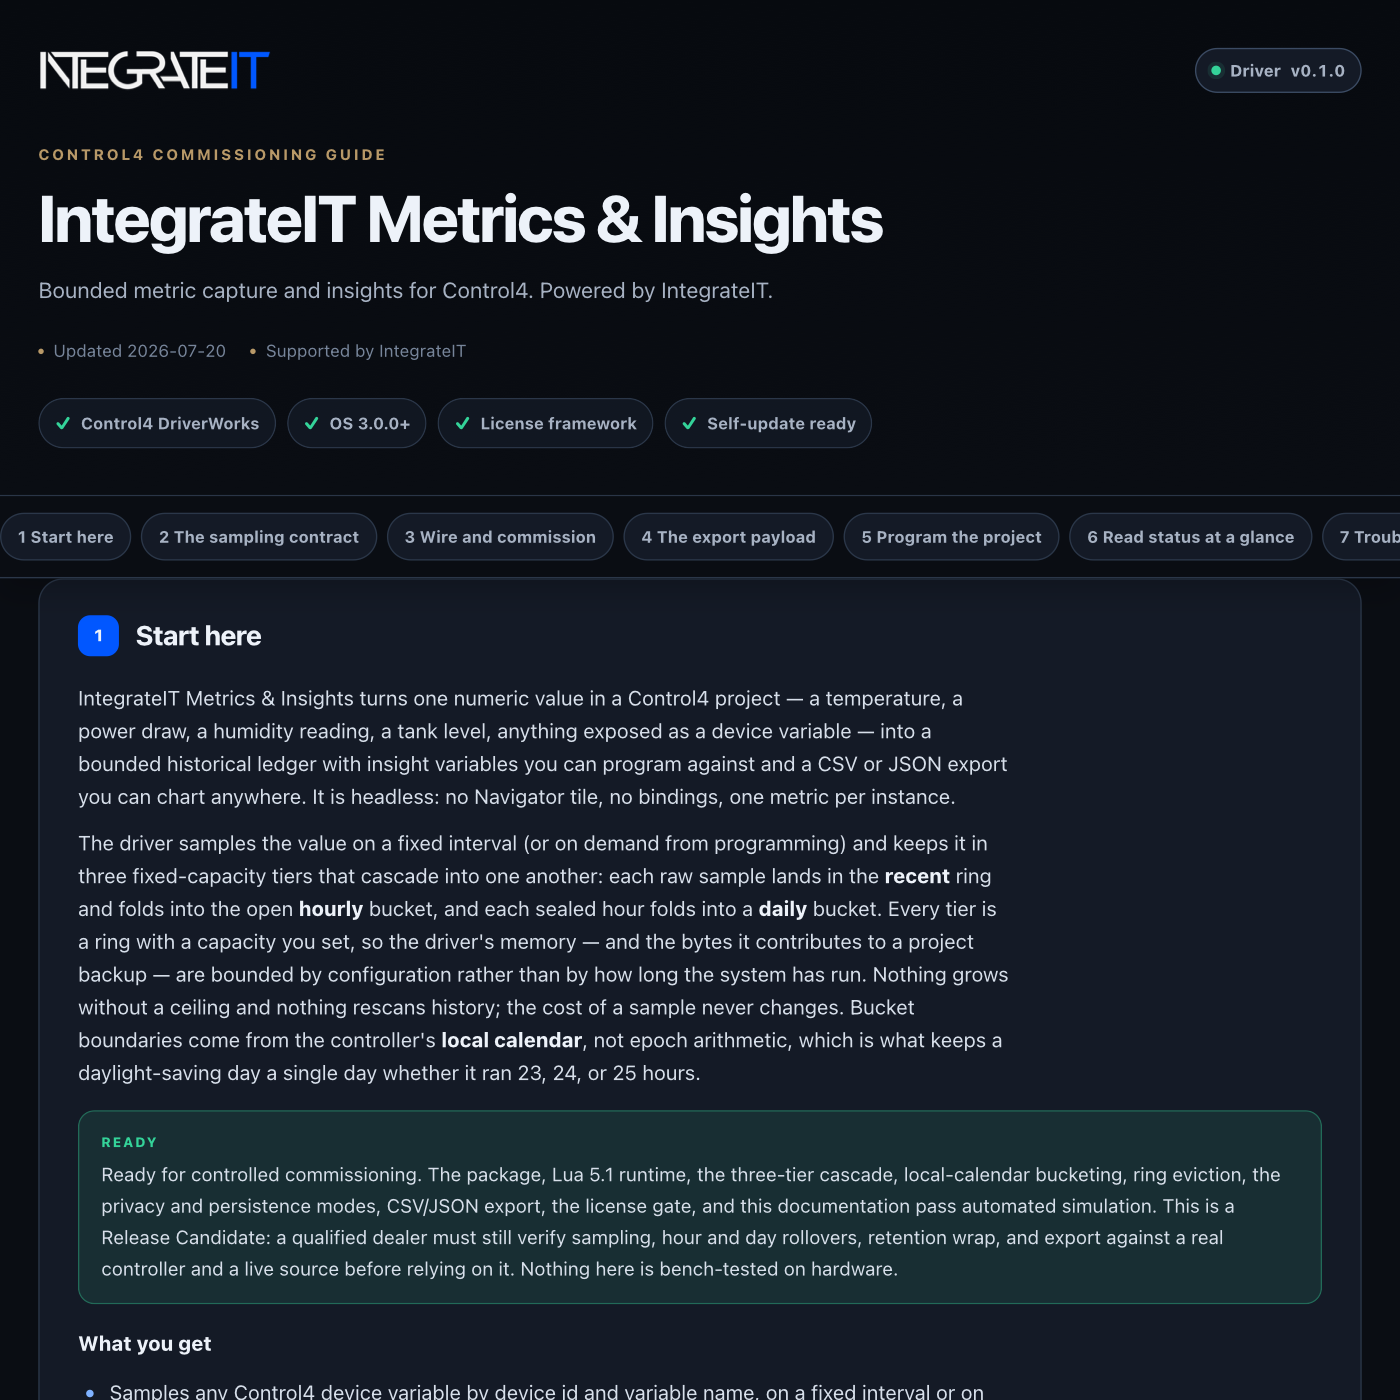
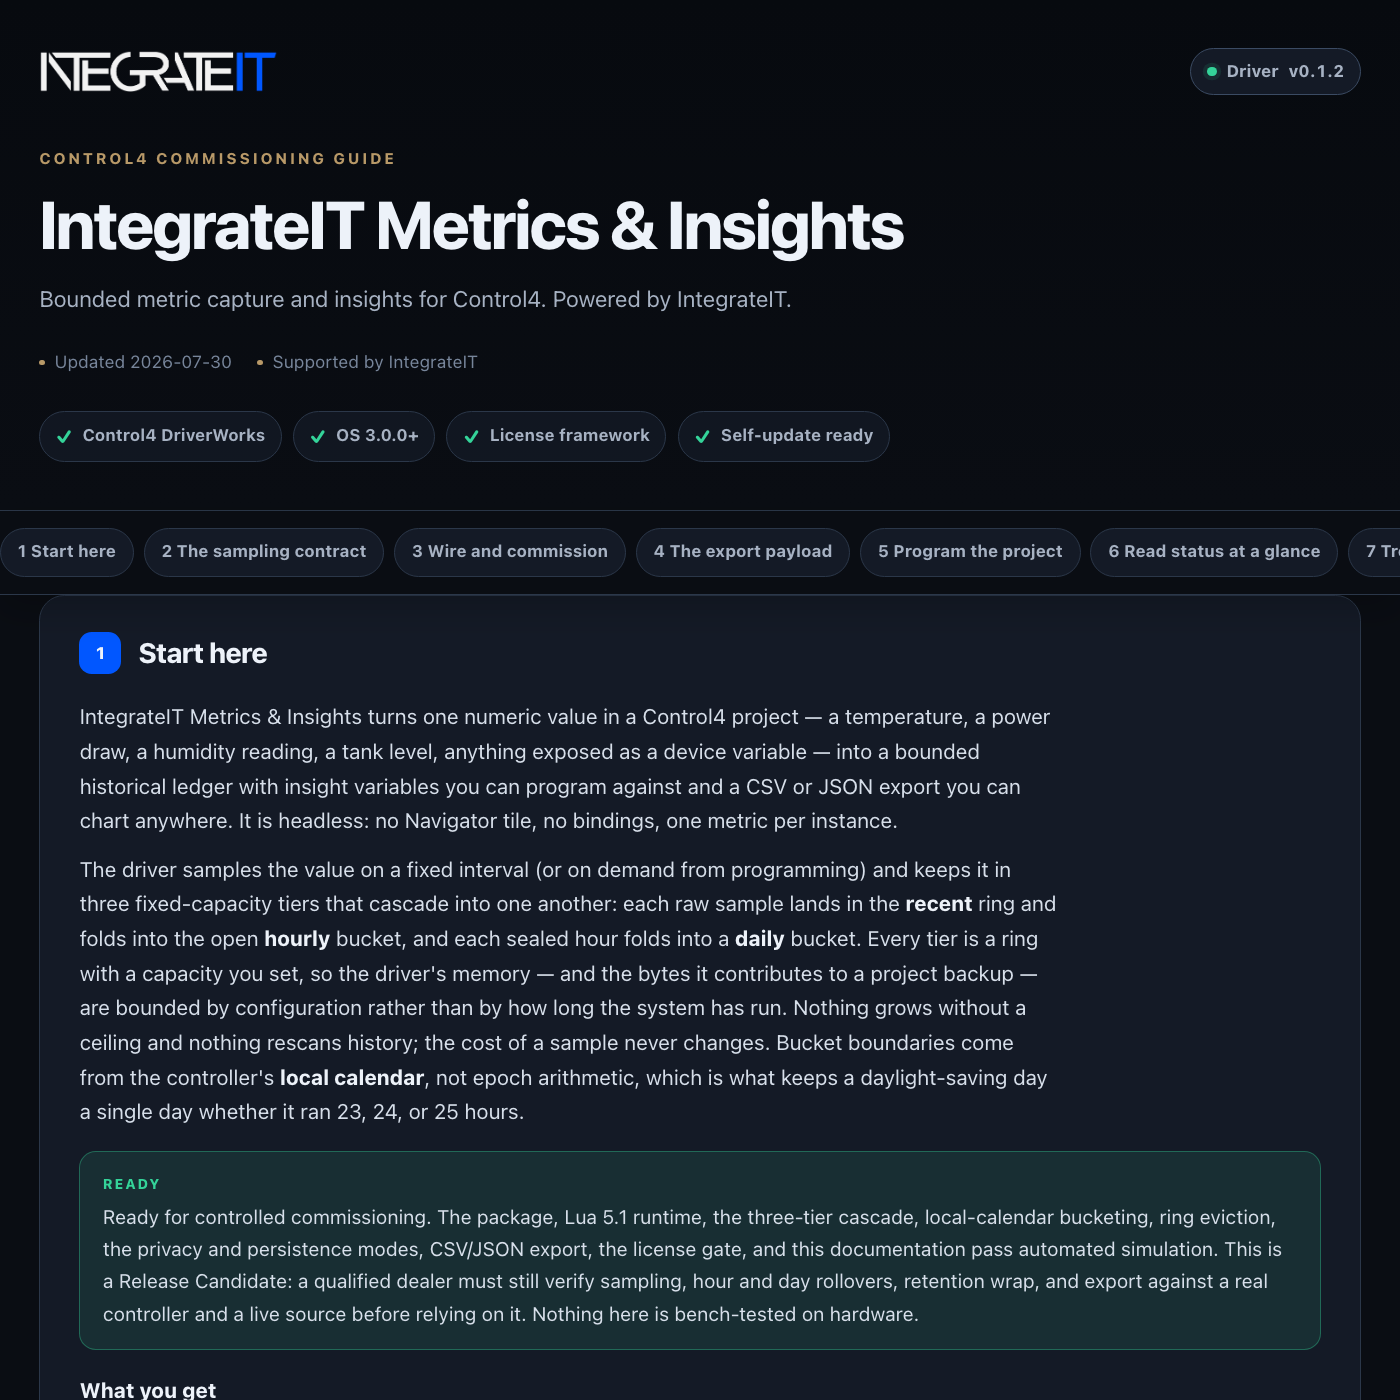
control4: publish driver channel (integrateit_graphing_insights 0.1.3)

diff --git a/control4/integrateit_graphing_insights/documentation.html b/control4/integrateit_graphing_insights/documentation.html
@@ -179,13 +179,13 @@ td code{white-space:normal}
     <div class="wrap">
       <div class="brandbar">
[1 lines of base64/hex data omitted]
-        <span class="version"><span class="word">Driver</span> v0.1.2</span>
+        <span class="version"><span class="word">Driver</span> v0.1.3</span>
       </div>
       <p class="eyebrow">Control4 commissioning guide</p>
       <h1>IntegrateIT Metrics & Insights</h1>
       <p class="sub">Bounded metric capture and insights for Control4. Powered by IntegrateIT.</p>
       <div class="meta">
-        <span>Updated 2026-07-30</span>
+        <span>Updated 2026-07-31</span>
         <span>Supported by IntegrateIT</span>
       </div>
       <div class="readiness" aria-label="Driver capabilities">
@@ -267,6 +267,20 @@ td code{white-space:normal}
 
 <section class="card" id="programming" data-card="programming">
   <h2><span class="n">5</span> Program the project</h2>
+  <p>Ten events are available to program against. Note which ones are edge-triggered — they fire on a transition, not on every poll, so a long outage or a long eviction run is one event, not hundreds.</p>
+  <table>
+    <tr><th>Event</th><th>Fires when</th></tr>
+    <tr><td><code>Sample Recorded</code></td><td>A value was appended to the ledger — the general-purpose "there is new data" hook, raised on every successful sample</td></tr>
+    <tr><td><code>New Maximum</code></td><td>The sample beat every previous value. The first sample of a ledger establishes the extremes silently and does not fire this</td></tr>
+    <tr><td><code>New Minimum</code></td><td>The sample fell below every previous value, with the same first-sample rule</td></tr>
+    <tr><td><code>Significant Change</code></td><td>The sample moved from the previous one by at least <b>Change Event Threshold</b> percent. Never fires while the threshold is <code>0</code>, or when the previous value was <code>0</code></td></tr>
+    <tr><td><code>Hour Rolled Over</code></td><td>A local hour ended and its bucket was sealed into the hourly tier</td></tr>
+    <tr><td><code>Day Rolled Over</code></td><td>A local day ended and its bucket was sealed into the daily tier</td></tr>
+    <tr><td><code>Source Unavailable</code></td><td>A scheduled poll could not read a number from the configured source. Edge-triggered: one event per outage, not one per poll</td></tr>
+    <tr><td><code>History Cleared</code></td><td>Every tier, and any persisted copy, was purged</td></tr>
+    <tr><td><code>Export Complete</code></td><td>An export reached the Lua output window, or the endpoint accepted it</td></tr>
+    <tr><td><code>Retention Limit Reached</code></td><td>A ring filled and started evicting its oldest rows. Fires once per ring, on the first eviction — not on every one</td></tr>
+  </table>
   <p>The insight variables update on every recorded sample:</p>
   <table>
     <tr><th>Variable</th><th>Type</th><th>Meaning</th></tr>
@@ -281,8 +295,9 @@ td code{white-space:normal}
   <ul>
     <li><b>When New Maximum fires and <code>METRIC_VALUE</code> is above your limit → alert.</b> A fresh all-time high on a freezer temperature or a UPS load drives a Control4 notification or scene. The first sample of a ledger sets the extremes silently and does not fire this.</li>
     <li><b>When Source Unavailable fires → notify and light a warning.</b> The configured device stopped returning a number; you get one event per outage, not one per poll.</li>
-    <li><b>On a scene or door event → call Record Sample Now.</b> With a source configured this reads it immediately, marking that moment on the series; with no source configured it re-stamps the value already at the head of the ledger, and records nothing at all while the ledger is still empty.</li>
+    <li><b>When Sample Recorded fires → refresh a live readout.</b> Push <code>METRIC_VALUE</code> and <code>METRIC_TREND</code> to a touch-screen field or a dashboard on every new sample, so the display tracks the ledger without anything polling it.</li>
   </ul>
+  <p>The six entries on the Actions tab — <b>Record Sample Now</b>, <b>Seal Open Buckets</b>, <b>Export to Lua Output</b>, <b>Export to Endpoint</b>, <b>Clear History</b>, <b>Print Configuration</b> — are dealer pokes you click while commissioning; this driver publishes no device-specific commands, so programming reacts to its events and reads its variables rather than calling it. <b>Record Sample Now</b> with a source configured reads it immediately, marking that moment on the series; with no source configured it re-stamps the value already at the head of the ledger, and records nothing at all while the ledger is still empty.</p>
   <p>Control paths are gated by the license: under Strict enforcement an unlicensed controller records, seals, exports, and clears nothing, and <b>License Status</b> carries the reason. The default Lenient mode allows commissioning with the nag.</p>
 </section>
 
@@ -304,9 +319,9 @@ td code{white-space:normal}
   <table>
     <tr><th>Symptom</th><th>Likely cause</th><th>Fix</th></tr>
     <tr><td>Nothing responds at all</td><td>Strict enforcement without a license</td><td>Check <code>License Status</code>; Lenient mode keeps everything enabled without a key.</td></tr>
-    <tr><td><code>Samples Stored</code> stays at all zeros</td><td><b>Privacy Mode</b> is Paused, or <b>Source Device ID</b> / <b>Source Variable</b> is blank</td><td>Status reads *Paused — capture stopped* in the first case; fill in both source fields in the second.</td></tr>
-    <tr><td>Status reads *Nothing to record*</td><td><b>Record Sample Now</b> ran with no source configured and no value ever recorded</td><td>Point <b>Source Device ID</b> and <b>Source Variable</b> at a numeric variable — the driver cannot be handed a value from programming.</td></tr>
-    <tr><td>Status reads *Source unavailable*</td><td>Wrong device id or variable name, or the variable is not numeric</td><td>Confirm both in Composer; a text variable such as a mode name cannot be graphed.</td></tr>
+    <tr><td><code>Samples Stored</code> stays at all zeros</td><td><b>Privacy Mode</b> is Paused, or <b>Source Device ID</b> / <b>Source Variable</b> is blank</td><td>Status reads <i>Paused — capture stopped</i> in the first case; fill in both source fields in the second.</td></tr>
+    <tr><td>Status reads <i>Nothing to record</i></td><td><b>Record Sample Now</b> ran with no source configured and no value ever recorded</td><td>Point <b>Source Device ID</b> and <b>Source Variable</b> at a numeric variable — the driver cannot be handed a value from programming.</td></tr>
+    <tr><td>Status reads <i>Source unavailable</i></td><td>Wrong device id or variable name, or the variable is not numeric</td><td>Confirm both in Composer; a text variable such as a mode name cannot be graphed.</td></tr>
     <tr><td><code>Current Value</code> never changes</td><td>The source updates more slowly than the interval</td><td>Shorten <b>Sample Interval</b>, or call <b>Record Sample Now</b> from programming.</td></tr>
     <tr><td>No <code>sample</code> rows in the export</td><td><b>Privacy Mode</b> is Aggregates Only</td><td>By design — raw rows are never kept in that mode. Switch to Full History to retain them.</td></tr>
     <tr><td>History is empty after a reboot</td><td><b>Persist Across Reboot</b> is Off</td><td>Set it to Aggregates Only or Full, and check <b>Storage Estimate</b> for the backup cost.</td></tr>
@@ -325,7 +340,7 @@ td code{white-space:normal}
   <p>Lenient mode allows commissioning without an activated key and keeps <b>License Status</b> visible. Strict mode blocks recording, sealing, export, and clearing until the Ops Portal has minted and validated a key for that controller. The shared IntegrateIT license and update services use the controller identity, driver slug, version, configured license key, and update channel as documented in the reference below. Installing this package does not itself mint or activate a controller license.</p>
 <section class="card" id="reference" data-card="reference">
   <h2><span class="n">R</span> Reference</h2>
-  <p>Generated from the driver manifest at build time — always matches this build (v0.1.2).</p>
+  <p>Generated from the driver manifest at build time — always matches this build (v0.1.3).</p>
   <h3>Properties</h3>
   <table>
     <tr><th>Property</th><th>Type</th><th>Default</th><th>Description</th></tr>
@@ -460,7 +475,9 @@ td code{white-space:normal}
     <section class="card" id="changelog" data-card="changelog">
   <h2><span class="n">V</span> Version history</h2>
   <div class="chg">
-    <div class="rel"><b>v0.1.2</b> <span class="pill green">current</span><span class="d">2026-07-30</span>
+    <div class="rel"><b>v0.1.3</b> <span class="pill green">current</span><span class="d">2026-07-31</span>
+      <ul><li>Programming-recipe honesty (per research/briefs-2026-07-26/actions-vs-commands-verdict.md, interim rule): the recipe "on a scene or door event -&gt; call Record Sample Now" fired an Actions-tab entry from programming, which this driver declares no command for. Replaced with a Sample Recorded event recipe; the Actions-tab entries are now labelled as the dealer pokes they are, with Record Sample Now's behaviour kept.</li><li>The guide documented no events at all: ten are declared and fired, but only a few were named in passing prose and Sample Recorded was never mentioned. Programming could not be written against events a dealer could not find. Adds the full event table, including which events are edge-triggered (Source Unavailable fires once per outage, Retention Limit Reached once per ring).</li><li>Documentation rendering: emphasis written as *emphasis* in the source now renders as emphasis in the packaged Documentation tab instead of shipping as literal asterisks. Protocol strings that legitimately contain a star, quoted inside code, stay exactly as written.</li></ul></div>
+    <div class="rel"><b>v0.1.2</b><span class="d">2026-07-30</span>
       <ul><li>A numeric property containing nan or inf (possible through a hand-edited project file) passed tonumber, defeated every range clamp (all nan comparisons are false), and could reach a timer interval or the wire. Numeric properties now fall back to their documented default when non-finite, and the transmit chokepoint refuses a non-finite value by name.</li><li>Non-finite inputs crashed rendering with 'table index is NaN' and a bad format specifier; both paths are now guarded.</li><li>Adds the fleet-standard Run Diagnostics and Run Self-Test dealer actions: read-only, license-independent, cached-state honesty. Diagnostics reports what the driver has already observed - never probing the network, never printing a secret. Self-Test proves the shared layer locally and ends PASS or FAIL.</li></ul></div>
     <div class="rel"><b>v0.1.1</b><span class="d">2026-07-26</span>
       <ul><li>Documentation rebuilt to the IntegrateIT commissioning-guide standard: uniform sections, honest contracts, verified claim-by-claim against the code.</li><li>The window no longer collapses when the open hour is sealed. Under Aggregates Only there are no raw rows by construction, so the window came from the open hourly bucket alone — and `Seal Open Buckets` nils it, dropping min/max/average/trend to zero on a ledger still holding good data. It now falls back to the newest sealed hour.</li><li>The cascade is explicitly append-only. A sample stamped older than the newest hour the ledger holds used to seal the open hour and reopen a past one, which the next live sample sealed again: two rows for one hour, an hourly ring out of chronological order (so both the export and `METRIC_DELTA_1H` read the wrong row), a spurious `Hour Rolled Over`, and a `Current Value` walking backwards. Stale instants are refused now, and the limitation is documented.</li><li>`Storage Estimate` billed for the raw sample ring whenever persistence was `Full`, even though privacy outranks persistence in `savePersist` and a `Full` + `Aggregates Only` project stores no raw rows at all. The estimate overstated the backup footprint by the whole sample ring.</li><li>Restored persistence rows are validated, not merely type-checked. "Is a table" was the entire test, so a table-shaped row missing its numeric fields entered the ring and then threw on the first arithmetic that touched it — taking down the next `RecordSample` and leaving a live driver with a dead ledger. Buckets and samples are now field-validated, and `total` is clamped.</li><li>Tightening Privacy Mode rebuilds the recent ring empty but left the wrap flag set, silently retiring `Retention Limit Reached` for the rest of the driver's life. Fresh headroom re-arms it, as it already did on a retention resize.</li></ul></div>

diff --git a/control4/integrateit_graphing_insights/CHANGELOG.md b/control4/integrateit_graphing_insights/CHANGELOG.md
@@ -1,5 +1,10 @@
 # Changelog — IntegrateIT Metrics & Insights
 
+## [0.1.3] - 2026-07-31
+- Programming-recipe honesty (per research/briefs-2026-07-26/actions-vs-commands-verdict.md, interim rule): the recipe "on a scene or door event -> call Record Sample Now" fired an Actions-tab entry from programming, which this driver declares no command for. Replaced with a Sample Recorded event recipe; the Actions-tab entries are now labelled as the dealer pokes they are, with Record Sample Now's behaviour kept.
+- The guide documented no events at all: ten are declared and fired, but only a few were named in passing prose and Sample Recorded was never mentioned. Programming could not be written against events a dealer could not find. Adds the full event table, including which events are edge-triggered (Source Unavailable fires once per outage, Retention Limit Reached once per ring).
+- Documentation rendering: emphasis written as *emphasis* in the source now renders as emphasis in the packaged Documentation tab instead of shipping as literal asterisks. Protocol strings that legitimately contain a star, quoted inside code, stay exactly as written.
+
 ## [0.1.2] - 2026-07-30
 - A numeric property containing nan or inf (possible through a hand-edited project file) passed tonumber, defeated every range clamp (all nan comparisons are false), and could reach a timer interval or the wire. Numeric properties now fall back to their documented default when non-finite, and the transmit chokepoint refuses a non-finite value by name.
 - Non-finite inputs crashed rendering with 'table index is NaN' and a bad format specifier; both paths are now guarded.
